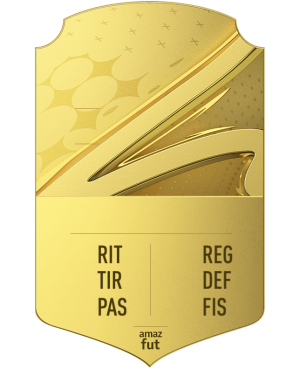
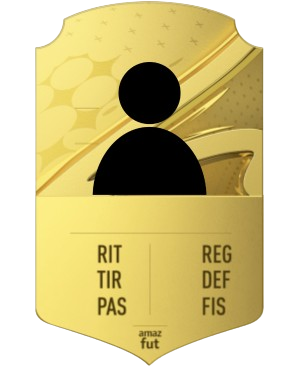
Agragar futbolista y carta en proceso

diff --git a/Programación23_24/JFRAME/Ejercicios/frameFutbol.java b/Programación23_24/JFRAME/Ejercicios/frameFutbol.java
@@ -4,6 +4,7 @@ import java.awt.BorderLayout;
 import java.awt.Color;
 import java.awt.FlowLayout;
 import java.awt.Font;
+import java.awt.Insets;
 import java.util.ArrayList;
 
 import javax.swing.BorderFactory;
@@ -14,6 +15,7 @@ import javax.swing.JFrame;
 import javax.swing.JLabel;
 import javax.swing.JPanel;
 import javax.swing.JTextArea;
+import javax.swing.JTextField;
 
 import dbClases.Equipo2;
 import dbClases.Futbolista2;
@@ -80,6 +82,100 @@ public class frameFutbol{
 		return verEquipos;
 	}
 
+	private static JFrame agregarFut(ImageIcon icono) {
+		
+		ArrayList<Futbolista2>listaFutbolistas=Futbol2.getFutbolistas();	//arraylist para tener todos los futbolistas
+		String[]DniFut = new String[listaFutbolistas.size()];	//array donde guardo el dni de cada uno para usarlo en la creación del jugador
+		
+		for(int i = 0; i < DniFut.length;i++) {
+			DniFut[i] = listaFutbolistas.get(i).getDni();	//aqui meto todos los dni
+		}
+		
+		JFrame ventana = new JFrame("Agregar futbolista");
+		ventana.setResizable(false);
+		ventana.setSize(500, 400);
+		
+		JPanel panel = new JPanel();
+		panel.setBackground(Color.WHITE);
+		panel.setLayout(null);
+		panel.setBounds(0, 0, 500, 350);
+		ventana.add(panel);
+		
+		Font fuente = new Font("Arial",Font.BOLD,14);
+		
+		JLabel titulo = new JLabel("Futbolista");
+		titulo.setFont(new Font("Impact",0,30));
+		titulo.setBounds(40,20,200,30);
+		panel.add(titulo);
+		
+		JLabel dniLabel = new JLabel("DNI:");
+		dniLabel.setBounds(10,80,100,30);
+		dniLabel.setFont(fuente);
+		
+		JTextField dniText = new JTextField();
+		dniText.setBounds(120,80,80,30);
+		dniText.setMargin(new Insets(0,7,0,7));
+		dniText.setFont(fuente);
+		
+		JLabel nombreLabel = new JLabel("Nombre:");
+		nombreLabel.setBounds(10,120,100,30);
+		nombreLabel.setFont(fuente);
+		
+		JTextField nombreText = new JTextField();
+		nombreText.setBounds(120,120,80,30);
+		nombreText.setMargin(new Insets(0,7,0,7));
+		nombreText.setFont(fuente);
+		
+		JLabel apellidoLabel = new JLabel("Apellido:");
+		apellidoLabel.setBounds(10,160,100,30);
+		apellidoLabel.setFont(fuente);
+		
+		JTextField apellidoText = new JTextField();
+		apellidoText.setBounds(120,160,80,30);
+		apellidoText.setMargin(new Insets(0,7,0,7));
+		apellidoText.setFont(fuente);
+		
+		JLabel salarioLabel = new JLabel("Salario:");
+		salarioLabel.setBounds(10,200,100,30);
+		salarioLabel.setFont(fuente);
+		
+		JTextField salarioText = new JTextField();
+		salarioText.setBounds(120,200,80,30);
+		salarioText.setMargin(new Insets(0,7,0,7));
+		salarioText.setFont(fuente);
+		
+		JLabel idequipoLabel = new JLabel("ID de equipo:");
+		idequipoLabel.setBounds(10,240,100,30);
+		idequipoLabel.setFont(fuente);
+		
+		JTextField idequipoText = new JTextField();
+		idequipoText.setBounds(120,240,80,30);
+		idequipoText.setMargin(new Insets(0,7,0,7));
+		idequipoText.setFont(fuente);
+		
+		panel.add(dniLabel);panel.add(dniText);panel.add(nombreLabel);panel.add(nombreText);
+		panel.add(apellidoLabel);panel.add(apellidoText);panel.add(salarioLabel);
+		panel.add(salarioText);panel.add(idequipoLabel);panel.add(idequipoText);
+		
+		JButton enviar = new JButton("Crear");
+		enviar.setBounds(40,290,150,50);
+		panel.add(enviar);
+		
+		
+		
+		
+		/*
+		 * insertar foto en jlabel
+		 * 
+		 * ImageIcon logo = new ImageIcon("img/logoCinesa.png");
+		Icon iconoLogo = new ImageIcon(logo.getImage().getScaledInstance(logotipo.getWidth(), logotipo.getHeight(), Image.SCALE_SMOOTH));
+		logotipo.setIcon(iconoLogo);
+		 */
+		
+		ventana.setVisible(true);
+		return ventana;
+	}
+	
 	private static JFrame idJug(ImageIcon icono) {
 
 		
@@ -207,10 +303,11 @@ public class frameFutbol{
 	return idEquipo;
 }
 	
+	
 	public static void main(String[] args){
 		JFrame ventanaInicial = new JFrame("Menu Futbol BBDD");
 		ventanaInicial.setDefaultCloseOperation(JFrame.EXIT_ON_CLOSE);
-		ventanaInicial.setSize(350, 530);
+		ventanaInicial.setSize(350, 450);
 		ventanaInicial.setLocationRelativeTo(null);
 		ventanaInicial.setResizable(false);
 		
@@ -221,7 +318,7 @@ public class frameFutbol{
 		
 		
 		JPanel panelGeneral = new JPanel();
-		panelGeneral.setSize(350, 530);
+		panelGeneral.setSize(350, 450);
 		panelGeneral.setLayout(new BorderLayout());
 		
 		JPanel panelTitulo = new JPanel(new FlowLayout(FlowLayout.CENTER));
@@ -235,7 +332,7 @@ public class frameFutbol{
 		
 		
 		JPanel panelBotones = new JPanel();
-		panelBotones.setSize(350, 430);
+		panelBotones.setSize(350, 350);
 		panelBotones.setLayout(null);
 		
 		
@@ -248,28 +345,24 @@ public class frameFutbol{
 		btn_ve.setBounds(45, 80, 250, 50);
 		btn_ve.setFont(fuenteBtn);
 		       
-		JButton btn_af = new JButton("Agregar Jugadores");
+		JButton btn_af = new JButton("Agregar Jugador y carta");
 		btn_af.setBounds(45, 140, 250, 50);
 		btn_af.setFont(fuenteBtn);
 		
-		JButton btn_ae = new JButton("Agregar Equipos");
+		JButton btn_ae = new JButton("Agregar Equipo");
 		btn_ae.setBounds(45, 200, 250, 50);
 		btn_ae.setFont(fuenteBtn);
 		
-		JButton btn_ac= new JButton("Agregar Carta");
-		btn_ac.setBounds(45, 260, 250, 50);
-		btn_ac.setFont(fuenteBtn);
-		
 		JButton btn_idf = new JButton("Mostrar Jugador por ID");
-		btn_idf.setBounds(45, 320, 250, 50);
+		btn_idf.setBounds(45, 260, 250, 50);
 		btn_idf.setFont(fuenteBtn);
 		
 		JButton btn_ide= new JButton("Mostrar Equipo por ID");
-		btn_ide.setBounds(45, 380, 250, 50);
+		btn_ide.setBounds(45, 320, 250, 50);
 		btn_ide.setFont(fuenteBtn);
 		
 		
-		panelBotones.add(btn_vj);panelBotones.add(btn_ve);panelBotones.add(btn_af);panelBotones.add(btn_ae);panelBotones.add(btn_ac);panelBotones.add(btn_idf);panelBotones.add(btn_ide);
+		panelBotones.add(btn_vj);panelBotones.add(btn_ve);panelBotones.add(btn_af);panelBotones.add(btn_ae);panelBotones.add(btn_idf);panelBotones.add(btn_ide);
 		panelGeneral.add(panelBotones, BorderLayout.CENTER);
 		ventanaInicial.add(panelGeneral);
 		
@@ -285,6 +378,10 @@ public class frameFutbol{
 		});
 		
 		btn_af.addActionListener(e -> {
+			agregarFut(icono);
+		});
+		
+		btn_ae.addActionListener(e -> {
 			
 		});
 		
